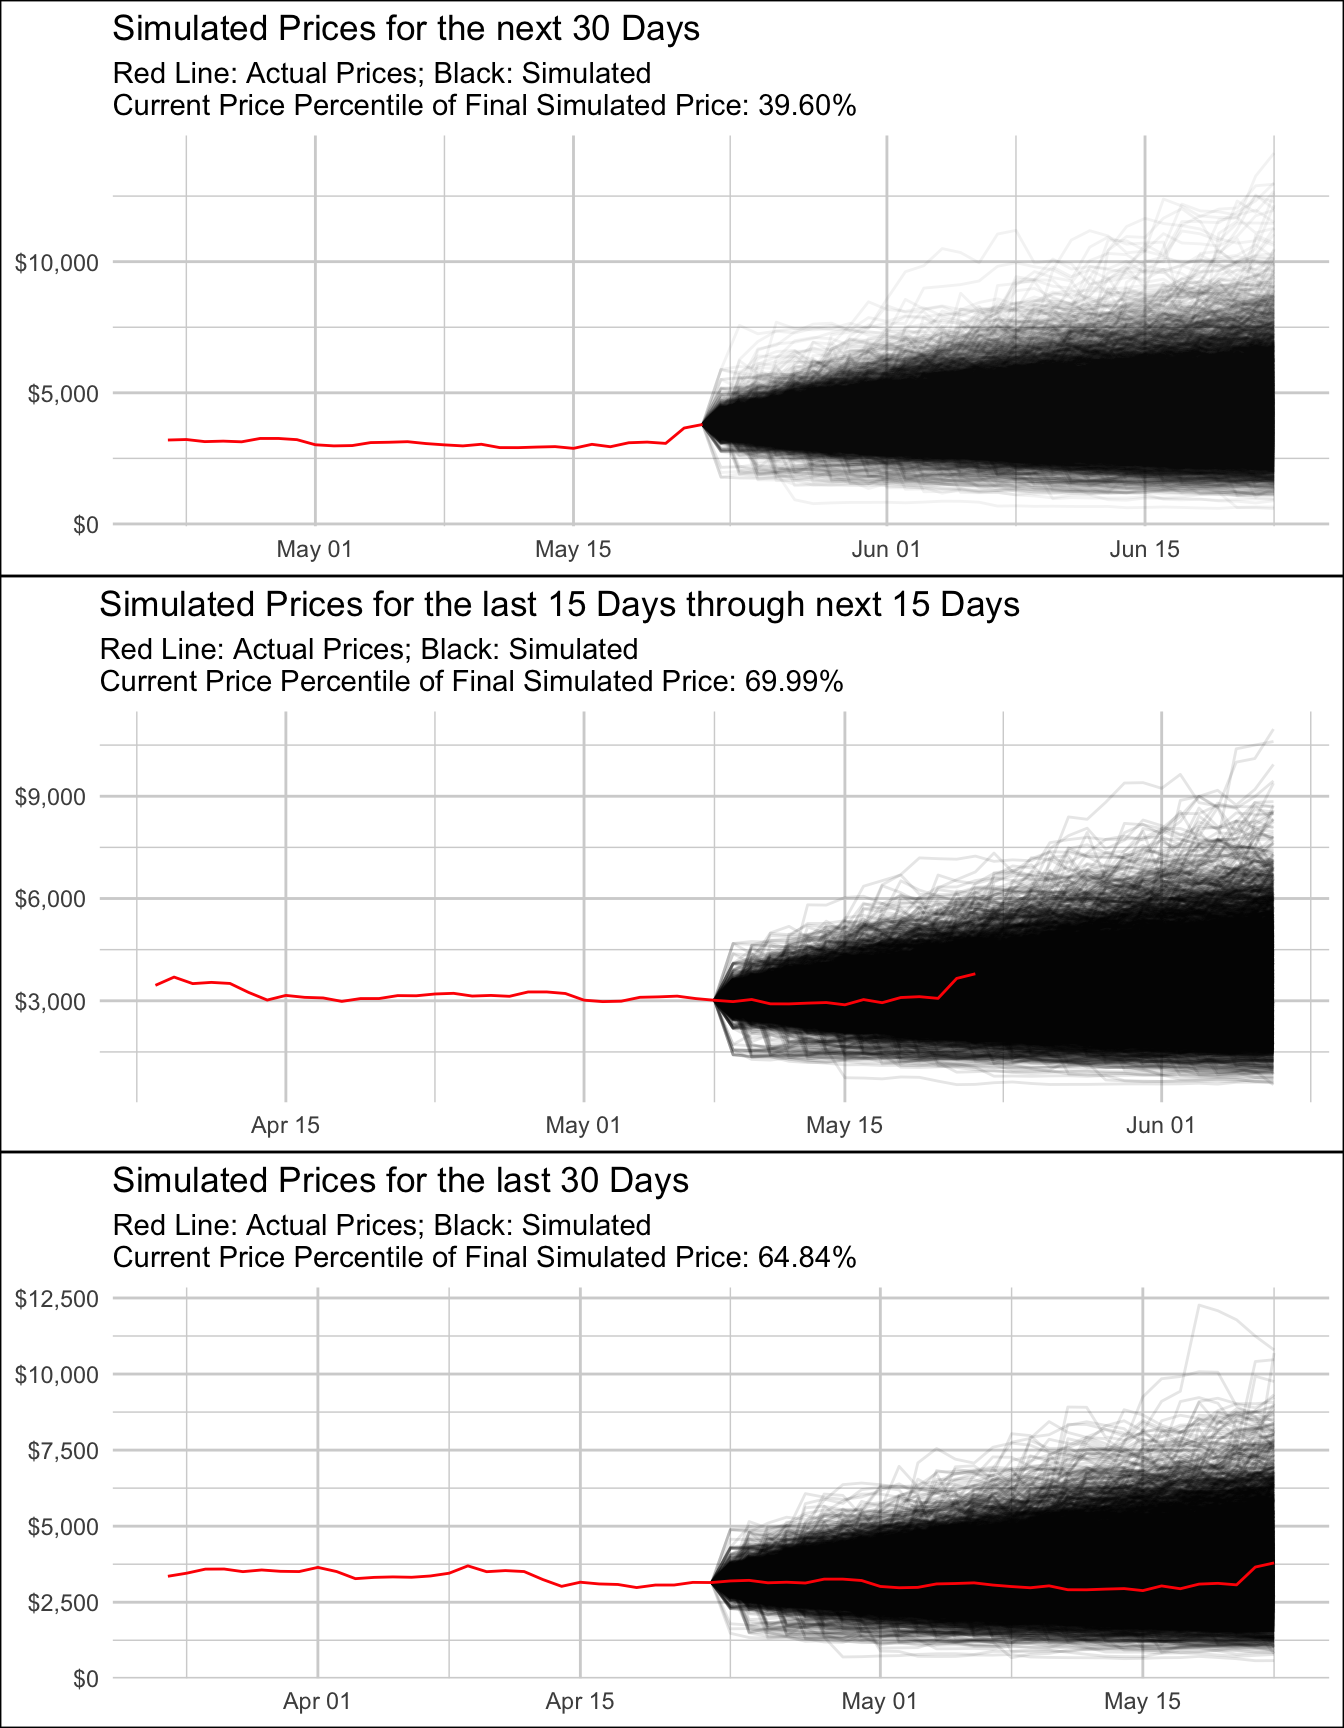
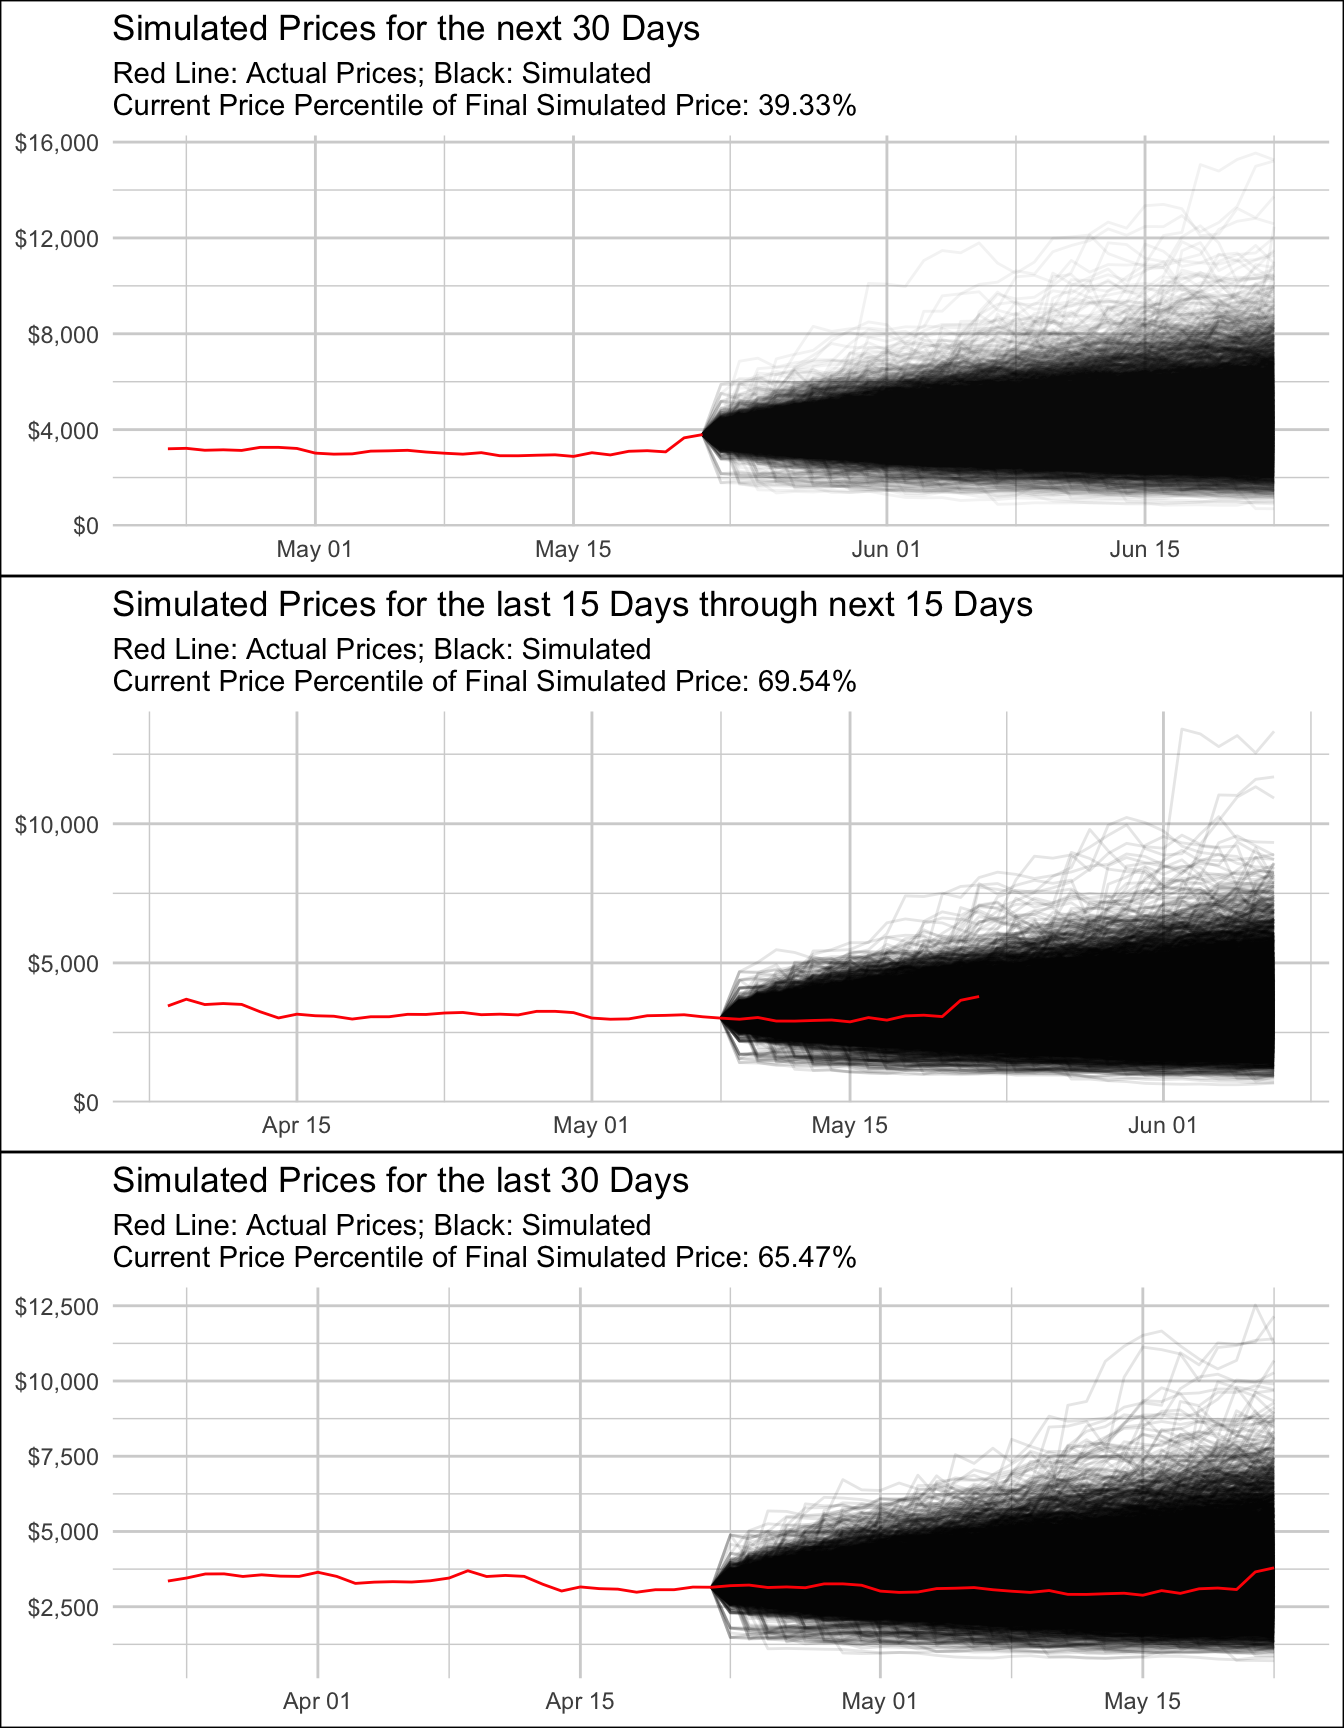
ready for some peer review

diff --git a/public/projects/sample-report/index.html b/public/projects/sample-report/index.html
@@ -97,7 +97,8 @@ ul.task-list li input[type="checkbox"] {
 
 <section id="summary" class="level2">
 <h2 class="anchored" data-anchor-id="summary">Summary</h2>
-<p>BTC IS A SELL.</p>
+<p>BTC is going down by 10% in the next 30 days.</p>
+<p>ETH is going down by 10% in the next 30 days.</p>
 </section>
 <section id="current-data" class="level2">
 <h2 class="anchored" data-anchor-id="current-data">Current Data</h2>
@@ -199,14 +200,14 @@ ul.task-list li input[type="checkbox"] {
 <h2 class="anchored" data-anchor-id="day-price-simulations">30 Day Price Simulations</h2>
 <section id="btc-2" class="level3">
 <h3 class="anchored" data-anchor-id="btc-2">BTC</h3>
-<p>There is a 95% chance that the price of BTC will be between $47,446.61 and $113,828 in 30 days.</p>
+<p>There is a 95% chance that the price of BTC will be between $47,830.70 and $113,016 in 30 days.</p>
 <p>The current price of BTC is within expected bounds from 15 days ago.</p>
 <p>The current price of BTC is within expected bounds from 30 days ago.</p>
 <p><img src="btc_eth_report_v3_files/figure-html/unnamed-chunk-11-1.png" class="img-fluid" style="width:100.0%"></p>
 </section>
 <section id="eth-2" class="level3">
 <h3 class="anchored" data-anchor-id="eth-2">ETH</h3>
-<p>There is a 95% chance that the price of ETH will be between $2,061.88 and $7,455.23 in 30 days.</p>
+<p>There is a 95% chance that the price of ETH will be between $2,066.58 and $7,538.41 in 30 days.</p>
 <p>The current price of ETH is within expected bounds from 15 days ago.</p>
 <p>The current price of ETH is within expected bounds from 30 days ago.</p>
 <p><img src="btc_eth_report_v3_files/figure-html/unnamed-chunk-12-1.png" class="img-fluid" style="width:100.0%"></p>
